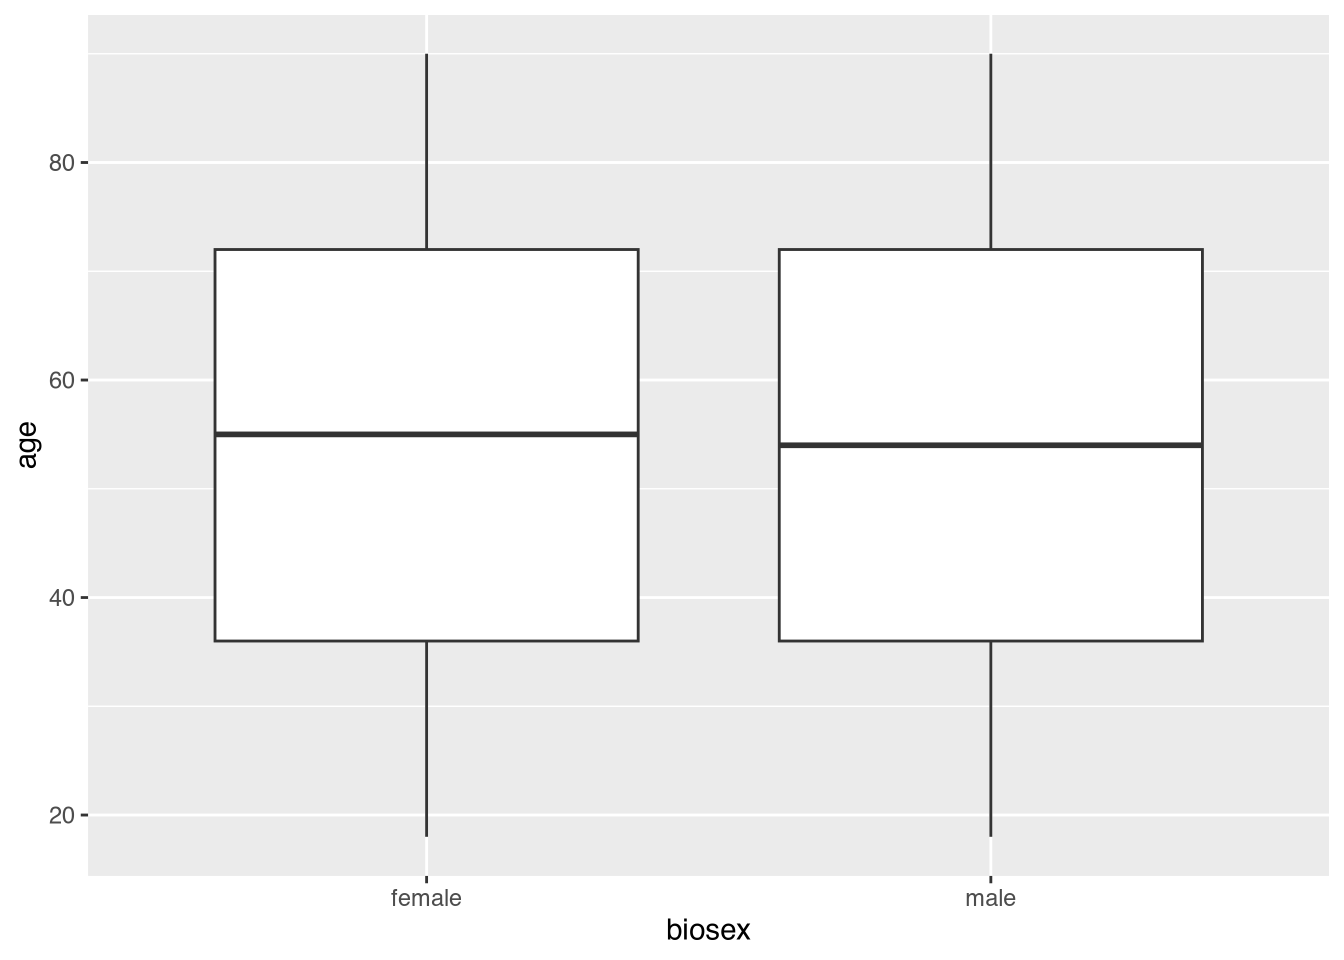
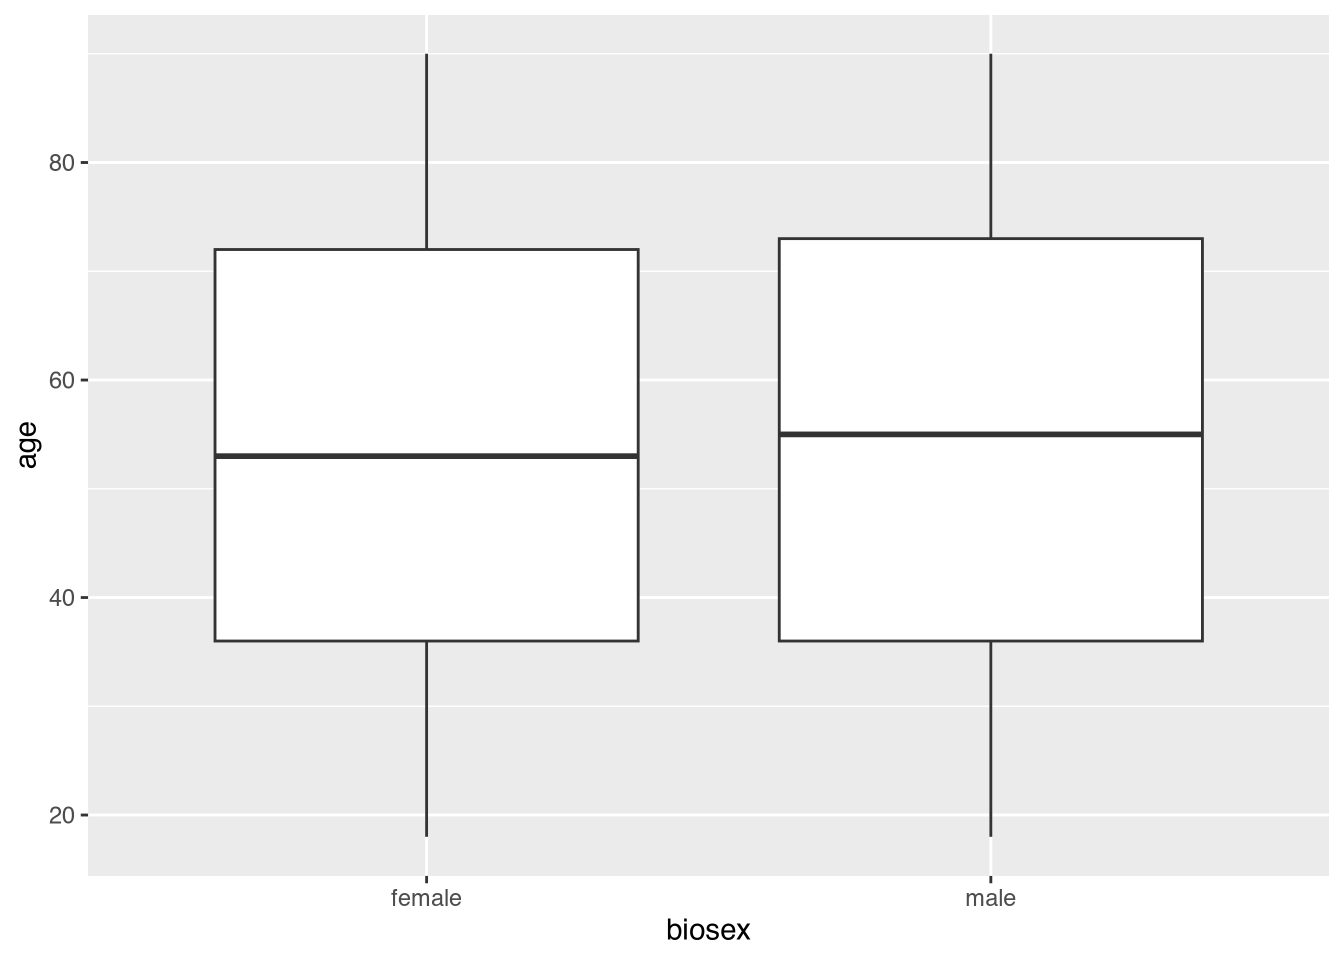
Built site for gh-pages

Changed region(s): [[0.1562, 0.4375, 0.4688, 0.5], [0.5625, 0.4375, 0.9062, 0.4688], [0.7188, 0.25, 0.75, 0.2812]]

diff --git a/Labs/Lab02.html b/Labs/Lab02.html
@@ -311,8 +311,8 @@ window.Quarto = {
 
 <div id="quarto-search-results"></div>
   <header id="quarto-header" class="headroom fixed-top">
-    <div id="quarto-announcement" data-announcement-id="fa27232393f0dc008c5ae9f9423b93b5" class="alert alert-light hidden"><i class="bi bi-info-circle quarto-announcement-icon"></i><div class="quarto-announcement-content">
-<p>The <a href="../Labs/Lab06.html">Assignment 6 lab component</a> has been posted.</p>
+    <div id="quarto-announcement" data-announcement-id="9e4aa887deeb8abd949767feb082f3a4" class="alert alert-light hidden"><i class="bi bi-info-circle quarto-announcement-icon"></i><div class="quarto-announcement-content">
+<p>The <a href="../Labs/Lab07.html">Assignment 7 lab component</a> has been posted.</p>
 </div><i class="bi bi-x-lg quarto-announcement-action"></i></div>
     <nav class="navbar navbar-expand-lg " data-bs-theme="dark">
       <div class="navbar-container container-fluid">
@@ -652,7 +652,7 @@ Levels: Ambidextrous Left-Handed Right-Handed</code></pre>
 <div class="cell">
 <div class="sourceCode cell-code" id="cb9"><pre class="sourceCode r"><code class="sourceCode r"><span id="cb9-1"><a href="#cb9-1" aria-hidden="true" tabindex="-1"></a><span class="fu">sample</span>(<span class="fu">c</span>(<span class="dv">1</span>,<span class="dv">2</span>,<span class="dv">3</span>,<span class="dv">4</span>,<span class="dv">5</span>,<span class="dv">6</span>), <span class="dv">25</span>, <span class="at">replace=</span><span class="cn">TRUE</span>)</span></code></pre></div>
 <div class="cell-output cell-output-stdout">
-<pre><code> [1] 2 4 1 5 4 2 5 2 4 2 1 4 1 5 6 1 3 3 6 4 5 6 6 3 6</code></pre>
+<pre><code> [1] 5 3 3 1 2 2 5 4 3 5 5 2 2 1 5 3 6 3 1 2 6 2 1 4 4</code></pre>
 </div>
 </div>
 
@@ -671,8 +671,8 @@ Levels: Ambidextrous Left-Handed Right-Handed</code></pre>
 <span id="cb11-9"><a href="#cb11-9" aria-hidden="true" tabindex="-1"></a></span>
 <span id="cb11-10"><a href="#cb11-10" aria-hidden="true" tabindex="-1"></a>assignment</span></code></pre></div>
 <div class="cell-output cell-output-stdout">
-<pre><code> [1] placebo   treatment treatment treatment placebo   placebo   treatment
- [8] placebo   placebo   treatment
+<pre><code> [1] treatment placebo   placebo   placebo   treatment treatment placebo  
+ [8] treatment treatment placebo  
 Levels: placebo treatment</code></pre>
 </div>
 </div>
@@ -731,12 +731,12 @@ Think for a moment and then click here to reveal an explanation.
 <span id="cb17-8"><a href="#cb17-8" aria-hidden="true" tabindex="-1"></a><span class="fu">head</span>(demographics)</span></code></pre></div>
 <div class="cell-output cell-output-stdout">
 <pre><code>  age biosex
-1  38   male
-2  31 female
-3  24   male
-4  74   male
-5  52 female
-6  78   male</code></pre>
+1  33   male
+2  85 female
+3  82   male
+4  55 female
+5  90   male
+6  31 female</code></pre>
 </div>
 </div>
 <p>Because this is uniformly random, we should expect even-looking plots.</p>

diff --git a/Labs/Lab07.html b/Labs/Lab07.html
@@ -311,8 +311,8 @@ window.Quarto = {
 
 <div id="quarto-search-results"></div>
   <header id="quarto-header" class="headroom fixed-top">
-    <div id="quarto-announcement" data-announcement-id="fa27232393f0dc008c5ae9f9423b93b5" class="alert alert-light hidden"><i class="bi bi-info-circle quarto-announcement-icon"></i><div class="quarto-announcement-content">
-<p>The <a href="../Labs/Lab06.html">Assignment 6 lab component</a> has been posted.</p>
+    <div id="quarto-announcement" data-announcement-id="9e4aa887deeb8abd949767feb082f3a4" class="alert alert-light hidden"><i class="bi bi-info-circle quarto-announcement-icon"></i><div class="quarto-announcement-content">
+<p>The <a href="../Labs/Lab07.html">Assignment 7 lab component</a> has been posted.</p>
 </div><i class="bi bi-x-lg quarto-announcement-action"></i></div>
     <nav class="navbar navbar-expand-lg " data-bs-theme="dark">
       <div class="navbar-container container-fluid">
@@ -630,7 +630,7 @@ The random seed determines where R's random number generator starts from. Settin
 <pre><code>[1]  98.23565 106.07565</code></pre>
 </div>
 </div>
-<p>Because <span class="math inline">\(mu\)</span> is within the confidence interval, we conclude that the sample mean <span class="math inline">\(\bar x\)</span> is not significantly different from <span class="math inline">\(mu\)</span>.</p>
+<p>Because <span class="math inline">\(\mu\)</span> is within the confidence interval, we conclude that the sample mean <span class="math inline">\(\bar x\)</span> is not significantly different from <span class="math inline">\(\mu\)</span>.</p>
 <section id="the-z-test" class="level2 page-columns page-full">
 <h2 class="anchored" data-anchor-id="the-z-test">The Z-Test</h2>
 <p>We can alternatively discuss our data in terms of the standard normal curve.</p>

diff --git a/Labs/Lab01.html b/Labs/Lab01.html
@@ -282,8 +282,8 @@ pre > code.sourceCode > span > a:first-child::before { text-decoration: underlin
 
 <div id="quarto-search-results"></div>
   <header id="quarto-header" class="headroom fixed-top">
-    <div id="quarto-announcement" data-announcement-id="fa27232393f0dc008c5ae9f9423b93b5" class="alert alert-light hidden"><i class="bi bi-info-circle quarto-announcement-icon"></i><div class="quarto-announcement-content">
-<p>The <a href="../Labs/Lab06.html">Assignment 6 lab component</a> has been posted.</p>
+    <div id="quarto-announcement" data-announcement-id="9e4aa887deeb8abd949767feb082f3a4" class="alert alert-light hidden"><i class="bi bi-info-circle quarto-announcement-icon"></i><div class="quarto-announcement-content">
+<p>The <a href="../Labs/Lab07.html">Assignment 7 lab component</a> has been posted.</p>
 </div><i class="bi bi-x-lg quarto-announcement-action"></i></div>
     <nav class="navbar navbar-expand-lg " data-bs-theme="dark">
       <div class="navbar-container container-fluid">

diff --git a/Labs/Lab03.html b/Labs/Lab03.html
@@ -282,8 +282,8 @@ pre > code.sourceCode > span > a:first-child::before { text-decoration: underlin
 
 <div id="quarto-search-results"></div>
   <header id="quarto-header" class="headroom fixed-top">
-    <div id="quarto-announcement" data-announcement-id="fa27232393f0dc008c5ae9f9423b93b5" class="alert alert-light hidden"><i class="bi bi-info-circle quarto-announcement-icon"></i><div class="quarto-announcement-content">
-<p>The <a href="../Labs/Lab06.html">Assignment 6 lab component</a> has been posted.</p>
+    <div id="quarto-announcement" data-announcement-id="9e4aa887deeb8abd949767feb082f3a4" class="alert alert-light hidden"><i class="bi bi-info-circle quarto-announcement-icon"></i><div class="quarto-announcement-content">
+<p>The <a href="../Labs/Lab07.html">Assignment 7 lab component</a> has been posted.</p>
 </div><i class="bi bi-x-lg quarto-announcement-action"></i></div>
     <nav class="navbar navbar-expand-lg " data-bs-theme="dark">
       <div class="navbar-container container-fluid">

diff --git a/Labs/Lab04.html b/Labs/Lab04.html
@@ -282,8 +282,8 @@ pre > code.sourceCode > span > a:first-child::before { text-decoration: underlin
 
 <div id="quarto-search-results"></div>
   <header id="quarto-header" class="headroom fixed-top">
-    <div id="quarto-announcement" data-announcement-id="fa27232393f0dc008c5ae9f9423b93b5" class="alert alert-light hidden"><i class="bi bi-info-circle quarto-announcement-icon"></i><div class="quarto-announcement-content">
-<p>The <a href="../Labs/Lab06.html">Assignment 6 lab component</a> has been posted.</p>
+    <div id="quarto-announcement" data-announcement-id="9e4aa887deeb8abd949767feb082f3a4" class="alert alert-light hidden"><i class="bi bi-info-circle quarto-announcement-icon"></i><div class="quarto-announcement-content">
+<p>The <a href="../Labs/Lab07.html">Assignment 7 lab component</a> has been posted.</p>
 </div><i class="bi bi-x-lg quarto-announcement-action"></i></div>
     <nav class="navbar navbar-expand-lg " data-bs-theme="dark">
       <div class="navbar-container container-fluid">

diff --git a/index.html b/index.html
@@ -246,8 +246,8 @@ ul.task-list li input[type="checkbox"] {
 
 <div id="quarto-search-results"></div>
   <header id="quarto-header" class="headroom fixed-top quarto-banner">
-    <div id="quarto-announcement" data-announcement-id="fa27232393f0dc008c5ae9f9423b93b5" class="alert alert-light hidden"><i class="bi bi-info-circle quarto-announcement-icon"></i><div class="quarto-announcement-content">
-<p>The <a href="./Labs/Lab06.html">Assignment 6 lab component</a> has been posted.</p>
+    <div id="quarto-announcement" data-announcement-id="9e4aa887deeb8abd949767feb082f3a4" class="alert alert-light hidden"><i class="bi bi-info-circle quarto-announcement-icon"></i><div class="quarto-announcement-content">
+<p>The <a href="./Labs/Lab07.html">Assignment 7 lab component</a> has been posted.</p>
 </div><i class="bi bi-x-lg quarto-announcement-action"></i></div>
     <nav class="navbar navbar-expand-lg " data-bs-theme="dark">
       <div class="navbar-container container-fluid">

diff --git a/404.html b/404.html
@@ -244,8 +244,8 @@ ul.task-list li input[type="checkbox"] {
 
 <div id="quarto-search-results"></div>
   <header id="quarto-header" class="headroom fixed-top">
-    <div id="quarto-announcement" data-announcement-id="fa27232393f0dc008c5ae9f9423b93b5" class="alert alert-light hidden"><i class="bi bi-info-circle quarto-announcement-icon"></i><div class="quarto-announcement-content">
-<p>The <a href="/./Labs/Lab06.html">Assignment 6 lab component</a> has been posted.</p>
+    <div id="quarto-announcement" data-announcement-id="9e4aa887deeb8abd949767feb082f3a4" class="alert alert-light hidden"><i class="bi bi-info-circle quarto-announcement-icon"></i><div class="quarto-announcement-content">
+<p>The <a href="/./Labs/Lab07.html">Assignment 7 lab component</a> has been posted.</p>
 </div><i class="bi bi-x-lg quarto-announcement-action"></i></div>
     <nav class="navbar navbar-expand-lg " data-bs-theme="dark">
       <div class="navbar-container container-fluid">

diff --git a/Design/L05.html b/Design/L05.html
@@ -246,8 +246,8 @@ ul.task-list li input[type="checkbox"] {
 
 <div id="quarto-search-results"></div>
   <header id="quarto-header" class="headroom fixed-top">
-    <div id="quarto-announcement" data-announcement-id="fa27232393f0dc008c5ae9f9423b93b5" class="alert alert-light hidden"><i class="bi bi-info-circle quarto-announcement-icon"></i><div class="quarto-announcement-content">
-<p>The <a href="../Labs/Lab06.html">Assignment 6 lab component</a> has been posted.</p>
+    <div id="quarto-announcement" data-announcement-id="9e4aa887deeb8abd949767feb082f3a4" class="alert alert-light hidden"><i class="bi bi-info-circle quarto-announcement-icon"></i><div class="quarto-announcement-content">
+<p>The <a href="../Labs/Lab07.html">Assignment 7 lab component</a> has been posted.</p>
 </div><i class="bi bi-x-lg quarto-announcement-action"></i></div>
     <nav class="navbar navbar-expand-lg " data-bs-theme="dark">
       <div class="navbar-container container-fluid">

diff --git a/Design/L06.html b/Design/L06.html
@@ -246,8 +246,8 @@ ul.task-list li input[type="checkbox"] {
 
 <div id="quarto-search-results"></div>
   <header id="quarto-header" class="headroom fixed-top">
-    <div id="quarto-announcement" data-announcement-id="fa27232393f0dc008c5ae9f9423b93b5" class="alert alert-light hidden"><i class="bi bi-info-circle quarto-announcement-icon"></i><div class="quarto-announcement-content">
-<p>The <a href="../Labs/Lab06.html">Assignment 6 lab component</a> has been posted.</p>
+    <div id="quarto-announcement" data-announcement-id="9e4aa887deeb8abd949767feb082f3a4" class="alert alert-light hidden"><i class="bi bi-info-circle quarto-announcement-icon"></i><div class="quarto-announcement-content">
+<p>The <a href="../Labs/Lab07.html">Assignment 7 lab component</a> has been posted.</p>
 </div><i class="bi bi-x-lg quarto-announcement-action"></i></div>
     <nav class="navbar navbar-expand-lg " data-bs-theme="dark">
       <div class="navbar-container container-fluid">

diff --git a/Design/L07.html b/Design/L07.html
@@ -246,8 +246,8 @@ ul.task-list li input[type="checkbox"] {
 
 <div id="quarto-search-results"></div>
   <header id="quarto-header" class="headroom fixed-top">
-    <div id="quarto-announcement" data-announcement-id="fa27232393f0dc008c5ae9f9423b93b5" class="alert alert-light hidden"><i class="bi bi-info-circle quarto-announcement-icon"></i><div class="quarto-announcement-content">
-<p>The <a href="../Labs/Lab06.html">Assignment 6 lab component</a> has been posted.</p>
+    <div id="quarto-announcement" data-announcement-id="9e4aa887deeb8abd949767feb082f3a4" class="alert alert-light hidden"><i class="bi bi-info-circle quarto-announcement-icon"></i><div class="quarto-announcement-content">
+<p>The <a href="../Labs/Lab07.html">Assignment 7 lab component</a> has been posted.</p>
 </div><i class="bi bi-x-lg quarto-announcement-action"></i></div>
     <nav class="navbar navbar-expand-lg " data-bs-theme="dark">
       <div class="navbar-container container-fluid">

diff --git a/Projects/Project01.html b/Projects/Project01.html
@@ -246,8 +246,8 @@ ul.task-list li input[type="checkbox"] {
 
 <div id="quarto-search-results"></div>
   <header id="quarto-header" class="headroom fixed-top">
-    <div id="quarto-announcement" data-announcement-id="fa27232393f0dc008c5ae9f9423b93b5" class="alert alert-light hidden"><i class="bi bi-info-circle quarto-announcement-icon"></i><div class="quarto-announcement-content">
-<p>The <a href="../Labs/Lab06.html">Assignment 6 lab component</a> has been posted.</p>
+    <div id="quarto-announcement" data-announcement-id="9e4aa887deeb8abd949767feb082f3a4" class="alert alert-light hidden"><i class="bi bi-info-circle quarto-announcement-icon"></i><div class="quarto-announcement-content">
+<p>The <a href="../Labs/Lab07.html">Assignment 7 lab component</a> has been posted.</p>
 </div><i class="bi bi-x-lg quarto-announcement-action"></i></div>
     <nav class="navbar navbar-expand-lg " data-bs-theme="dark">
       <div class="navbar-container container-fluid">

diff --git a/Slides.html b/Slides.html
@@ -246,8 +246,8 @@ ul.task-list li input[type="checkbox"] {
 
 <div id="quarto-search-results"></div>
   <header id="quarto-header" class="headroom fixed-top">
-    <div id="quarto-announcement" data-announcement-id="fa27232393f0dc008c5ae9f9423b93b5" class="alert alert-light hidden"><i class="bi bi-info-circle quarto-announcement-icon"></i><div class="quarto-announcement-content">
-<p>The <a href="./Labs/Lab06.html">Assignment 6 lab component</a> has been posted.</p>
+    <div id="quarto-announcement" data-announcement-id="9e4aa887deeb8abd949767feb082f3a4" class="alert alert-light hidden"><i class="bi bi-info-circle quarto-announcement-icon"></i><div class="quarto-announcement-content">
+<p>The <a href="./Labs/Lab07.html">Assignment 7 lab component</a> has been posted.</p>
 </div><i class="bi bi-x-lg quarto-announcement-action"></i></div>
     <nav class="navbar navbar-expand-lg " data-bs-theme="dark">
       <div class="navbar-container container-fluid">
